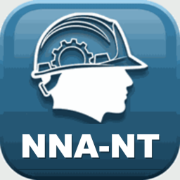
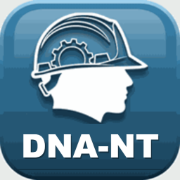
Đổi tên app thành DNA-NT

diff --git a/index.html b/index.html
@@ -3,14 +3,14 @@
 <head>
 <meta charset="utf-8">
 <meta name="viewport" content="width=device-width,initial-scale=1,viewport-fit=cover">
-<title>QUẢN LÝ NỘI THẤT NNA</title>
+<title>DNA-NT – Quản lý dự án Nội thất</title>
 <meta name="theme-color" content="#2a6688">
 <link rel="manifest" href="manifest.webmanifest">
 <link rel="icon" type="image/png" sizes="192x192" href="icon-192.png">
 <link rel="apple-touch-icon" href="apple-touch-icon.png">
 <meta name="apple-mobile-web-app-capable" content="yes">
 <meta name="mobile-web-app-capable" content="yes">
-<meta name="apple-mobile-web-app-title" content="Nội thất NNA">
+<meta name="apple-mobile-web-app-title" content="DNA-NT">
 <style>
 html,body{margin:0;height:100%;background:#f3f4f2;font-family:system-ui,-apple-system,"Segoe UI",Roboto,sans-serif}
 #app{position:fixed;inset:0;width:100%;height:100%;border:0;background:transparent}
@@ -27,9 +27,9 @@ html,body{margin:0;height:100%;background:#f3f4f2;font-family:system-ui,-apple-s
 </style>
 </head>
 <body>
-<div id="load"><img src="icon-192.png" alt=""><b>QUẢN LÝ NỘI THẤT NNA</b><div id="bar"><i></i></div></div>
-<iframe id="app" title="QUẢN LÝ NỘI THẤT NNA" src="https://script.google.com/macros/s/AKfycbyJuVDEsWY3i0DJ7DuI4D_7QjcNG9sabaDkMXGxJO8Qd637_6pM6LdsDS2HHJwC7hPqLA/exec" allow="web-share; clipboard-write; fullscreen"></iframe>
-<div id="cai"><img src="icon-192.png" alt=""><div><b>Cài app Nội thất NNA</b><br>Đưa biểu tượng ra màn hình chính</div><button id="caiBtn">Cài đặt</button><button class="x" id="caiX" aria-label="Đóng">✕</button></div>
+<div id="load"><img src="icon-192.png" alt=""><b>DNA-NT – Quản lý dự án Nội thất</b><div id="bar"><i></i></div></div>
+<iframe id="app" title="DNA-NT – Quản lý dự án Nội thất" src="https://script.google.com/macros/s/AKfycbyJuVDEsWY3i0DJ7DuI4D_7QjcNG9sabaDkMXGxJO8Qd637_6pM6LdsDS2HHJwC7hPqLA/exec" allow="web-share; clipboard-write; fullscreen"></iframe>
+<div id="cai"><img src="icon-192.png" alt=""><div><b>Cài app DNA-NT</b><br>Đưa biểu tượng ra màn hình chính</div><button id="caiBtn">Cài đặt</button><button class="x" id="caiX" aria-label="Đóng">✕</button></div>
 <script>
 if('serviceWorker' in navigator){navigator.serviceWorker.register('sw.js').catch(()=>{})}
 let dp=null;const cai=document.getElementById('cai');

diff --git a/sw.js b/sw.js
@@ -1,4 +1,4 @@
-const C='noithat-nna-v1';const F=['./','index.html','manifest.webmanifest','icon-192.png','icon-512.png'];
+const C='dna-nt-v2';const F=['./','index.html','manifest.webmanifest','icon-192.png','icon-512.png'];
 self.addEventListener('install',e=>{e.waitUntil(caches.open(C).then(c=>c.addAll(F)).then(()=>self.skipWaiting()))});
 self.addEventListener('activate',e=>{e.waitUntil(caches.keys().then(k=>Promise.all(k.filter(x=>x!==C).map(x=>caches.delete(x)))).then(()=>self.clients.claim()))});
 self.addEventListener('fetch',e=>{const u=new URL(e.request.url);if(u.origin!==location.origin)return;e.respondWith(fetch(e.request).catch(()=>caches.match(e.request,{ignoreSearch:true})))});
